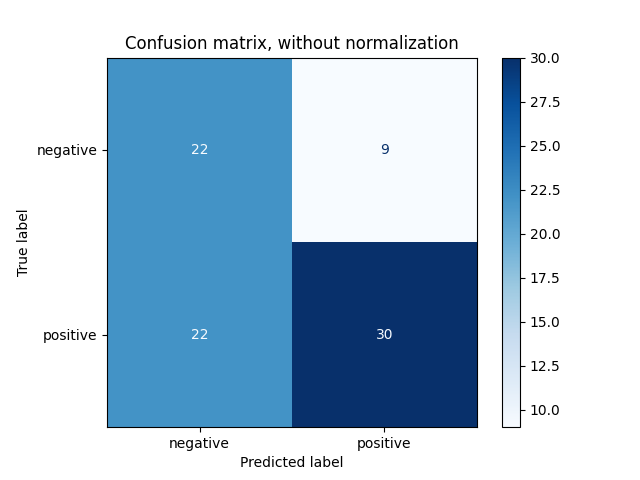
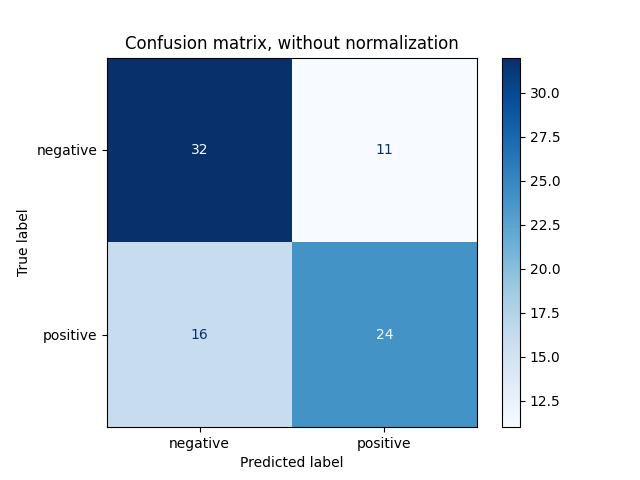
knn test update

diff --git a/Backend/Models/KNN/KNN_testing.py b/Backend/Models/KNN/KNN_testing.py
@@ -2,19 +2,20 @@ import pickle
 import pickle
 
 import matplotlib.pyplot as plt
+import sklearn
 import sklearn.metrics as metrics
-from sklearn.metrics import plot_confusion_matrix
+from sklearn.metrics import plot_confusion_matrix, accuracy_score
 from sklearn.model_selection import train_test_split
 
 import methods
 
 path = ""
 
-dataset_type = ""
+# dataset_type = ""
 # dataset_type = "_SMOTE"
 # dataset_type = "_RandomOverSampler"
 # dataset_type = "_ADASYN"
-# dataset_type = "_SMOTE_improved"
+dataset_type = "_SMOTE_improved"
 
 # pd_data = pd.read_csv('Data/DetectPD.csv')
 clf = methods.find_highest_accuracy_model(path, dataset_type)
@@ -32,9 +33,12 @@ clf.fit(X_train, y_train)
 predictions = clf.predict(X_test)
 
 # getting accuracy as percentage
-# accuracy = accuracy_score(y_test, predictions) * 100
-# print(sklearn.metrics.classification_report(y_test, predictions))
-# print(accuracy)
+accuracy = accuracy_score(y_test, predictions) * 100
+message = sklearn.metrics.classification_report(y_test, predictions) + f"\nAccuracy: {accuracy}"
+
+file = open(f"diagrams/DetectPD{dataset_type}/DetectPD{dataset_type}_Results.txt", "w")
+file.write(message)
+file.close()
 
 # Creating confusion matrix
 labels = ['negative', 'positive']
